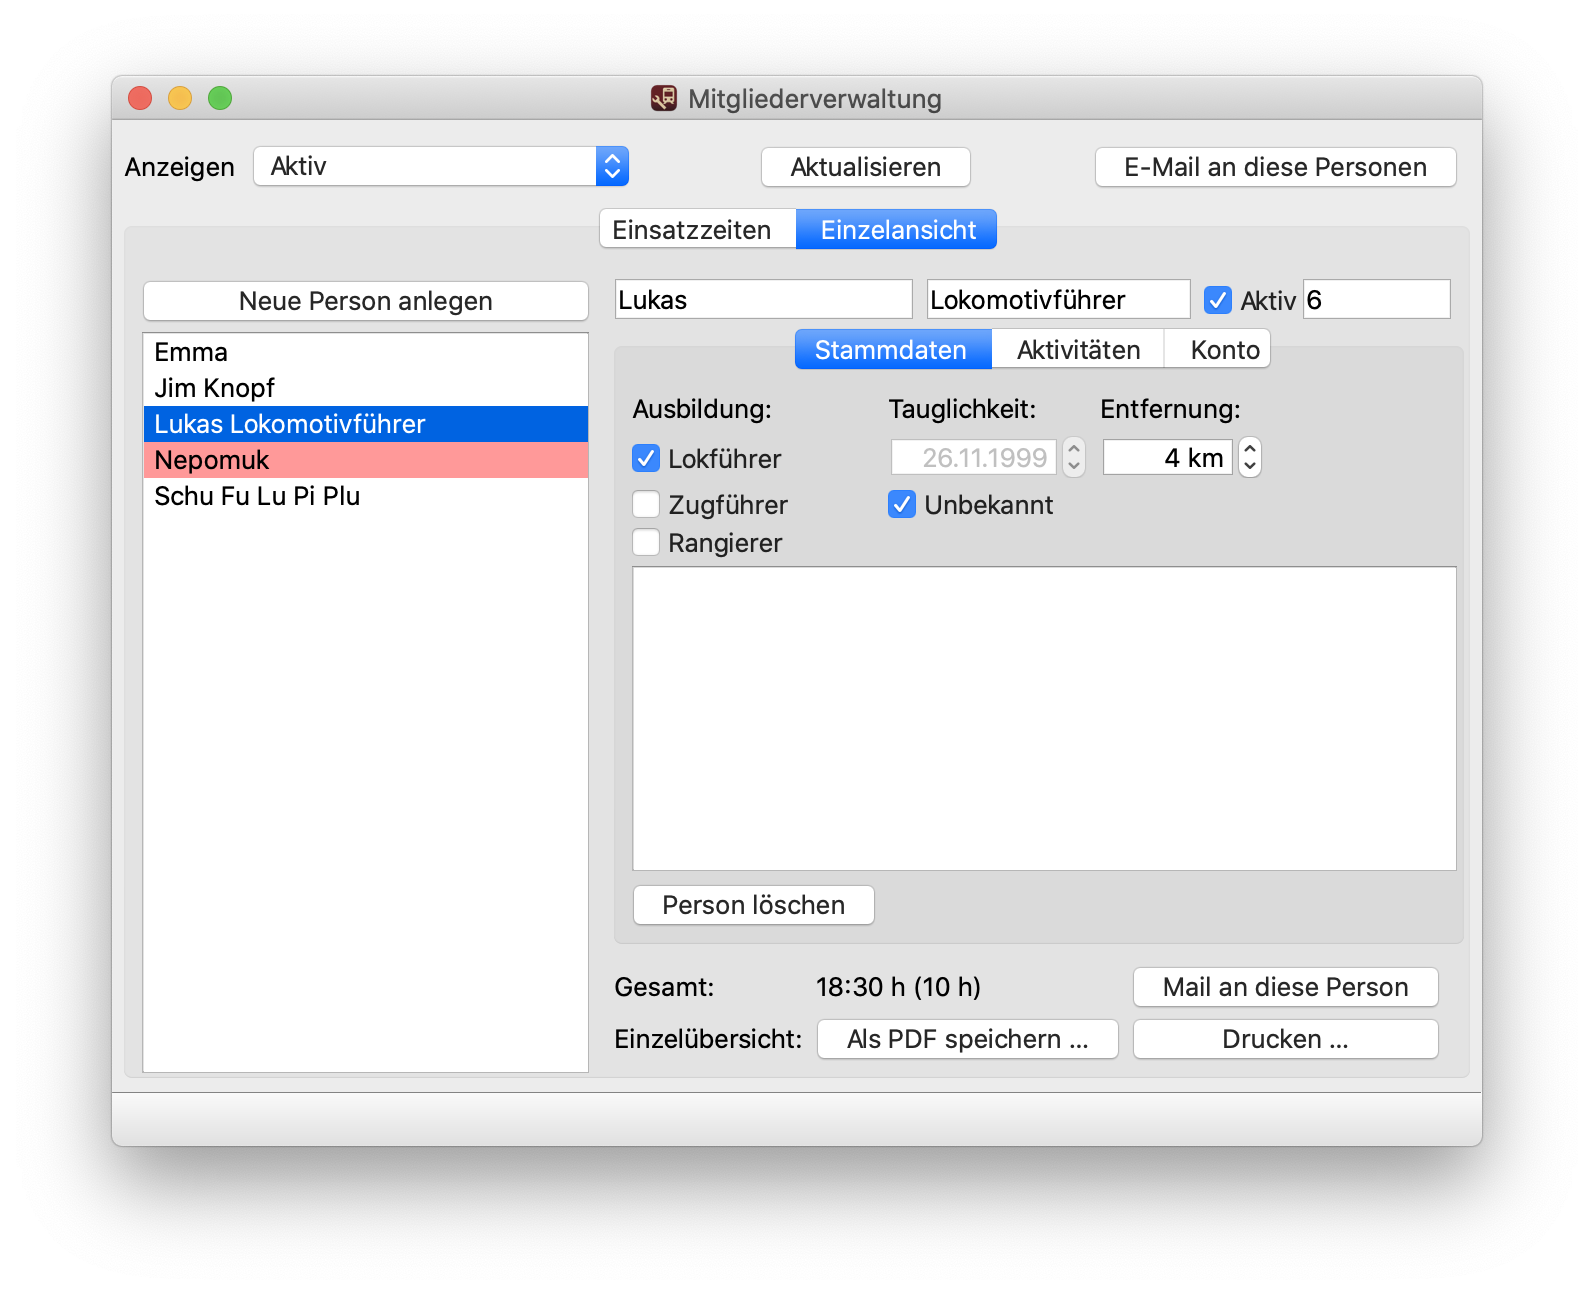
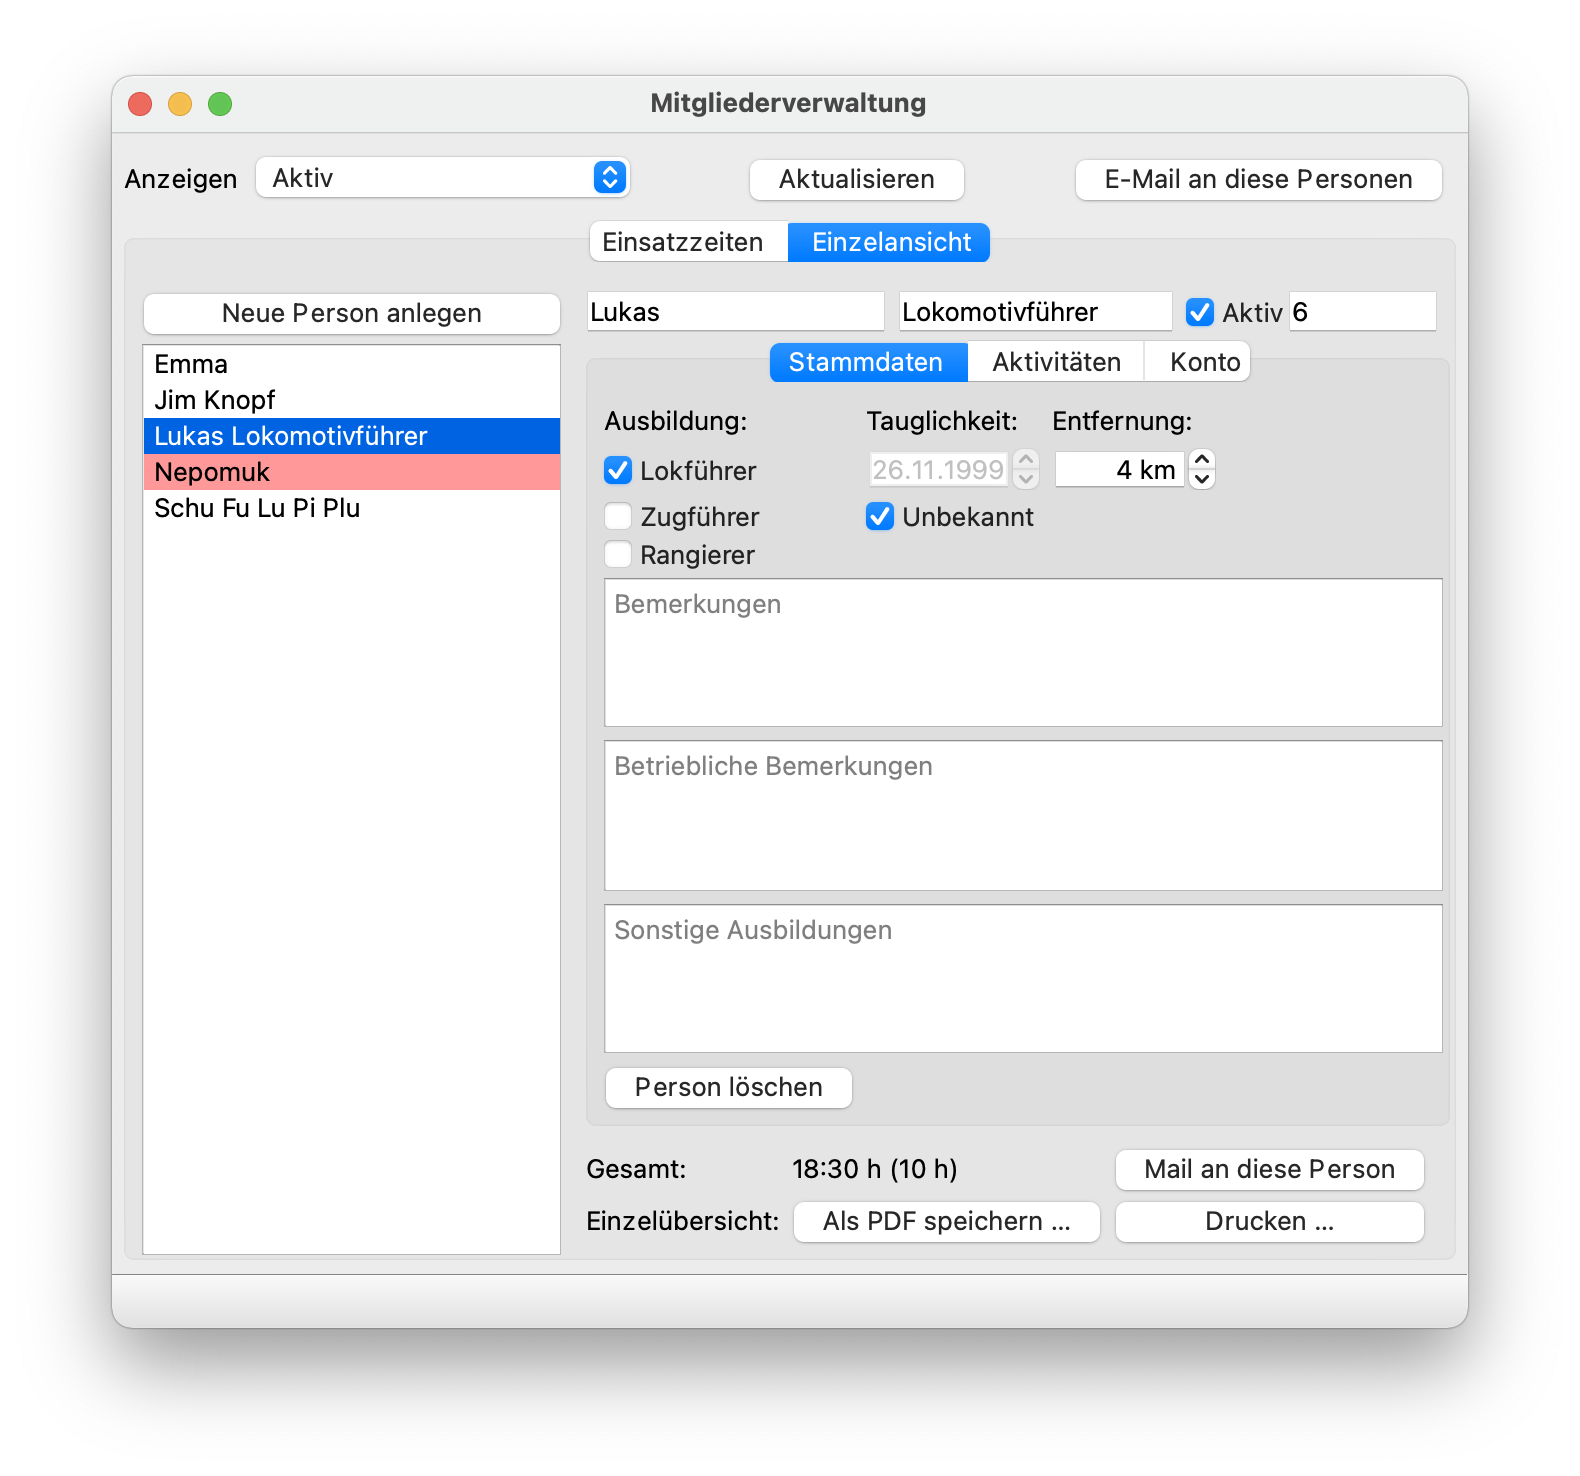
Anleitung aktualisiert
Anleitung auf Version 1.7.1 aktualisiert, dazu Veränderungen eingefügt und verschiedene Bilder aktualisiert.

Changed region(s): [[0.062, 0.0618, 0.9304, 0.9274]]

diff --git a/Dokumentation/src/version/v1-7.tex b/Dokumentation/src/version/v1-7.tex
@@ -1,4 +1,3 @@
-\begin{neu}
 \section{Version 1.7}\label{version:1:6}
 \subsection{Version 1.7.0}
 \label{version:1:7:0}
@@ -44,6 +43,49 @@ Veröffentlicht am 02.04.2021
   Die Datei mit den Stammdaten konnte nicht geöffnet werden
   \item
   Die hochgeladene Datei war unter Umständen leer bzw. fehlerhaft
+  \item
+  Diverse kleinere Fehlerbehebungen
+\end{itemize}
+
+
+\begin{neu}
+\subsection{Version 1.7.1}
+\label{version:1:7:1}
+Veröffentlicht am 13.06.2021
+\subsubsection{Verbessert}
+\begin{itemize}
+  \item
+  Die End-Zeit für Arbeitseinsätze wird dynamisch bestimmt (18Uhr im Sommer, 16 Uhr im Winter)
+  \item
+  Mehr Begriffe für die automatische Kategorieerkennung bei Arbeitseinsätzen
+  \item
+  Diverse interne Verbesserungen und Optimierungen
+  \item
+  Die Personaltabelle des Personalplaners wird nicht bei jeder Änderung aktualisiert
+  \item
+  Ausgabe bei Personallisten, wie viele Personen ausgegeben wurden
+  \item
+  Diverse kleinere Verbesserungen
+\end{itemize}
+
+\subsubsection{Fehlerbehebungen}
+\begin{itemize}
+  \item
+  Die Exportfunktion gab keine Aktivitäten aus, wenn "`Bis Ende des Jahres"' oder "`Ab Anfang des Jahres"' ausgewählt wurde
+  \item
+  Tb-Stunden wurden nicht ausgegeben
+  \item
+  Büro-Tätigkeiten erscheinen nicht in der Listenansicht
+  \item
+  Tabelle für das Personal hatte unter Umständen keine Überschrift
+  \item
+  Gefahrene Strecke wurde unter Umständen falsch berechnet
+  \item
+  Kontoinhaber falsch dargestellt, wenn nicht "`Familienbeitrag (Nutzer)"' ausgewählt war
+  \item
+  Einträge in der Personaltabelle eines Fahrtags konnte unter Umständen unberechtigt geändert werden
+  \item
+  Darstellung von Farben im Dunkelmodus wurden verbessert
   \item
   Diverse kleinere Fehlerbehebungen
 \end{itemize}

diff --git a/Dokumentation/src/vorne_u_hinten/begriffe.tex b/Dokumentation/src/vorne_u_hinten/begriffe.tex
@@ -36,6 +36,13 @@
     Eine Aktivität, bei der eine Arbeit im Mittelpunkt steht, bei der es vornehmlich nicht um den Zugbetrieb geht.
     Zum Beispiel vorbereiten des Museumszuges oder Vegetationsarbeiten. \\
   \hline
+  Einsatz &
+  \begin{neu}
+    Eine Tätigkeit einer Person bei einer bestimmten Aktivität (Arbeitseinsatz oder Fahrtag).
+    Hierzu gehört auch eine bestimmte Kategorie und bei Bedarf individuelle Anfangs- und Endzeiten.
+\end{neu}
+     \\
+  \hline
   ELF &
     Ein Kurs, bei dem ein bis zwei Personen einen Einblick in die Welt des Tf bekommt.
     Die Personen nehmen an einem theoretischen Unterricht teil und am zweiten Tag an der praktischen Ausbildung mit Museumszugbetrieb.\\

diff --git a/Dokumentation/src/epl/allgemein.tex b/Dokumentation/src/epl/allgemein.tex
@@ -93,7 +93,7 @@ Alternativ können Sie die beiden Programm im Ordner \datei{EPL} auch einzeln in
 
 \section{Über das Dokument}\label{epl:allg:sonstiges}
 Die Bilder in dieser Dokumentation stammen von Bildern der Entwicklerversionen des Programms für Version
-1.7.0
+1.7.1
 und aus früheren Versionen.
 Dadurch können Programmobjekte und Funktionen leicht von denen in der veröffentlichten Version abweichen.
 

diff --git a/Dokumentation/src/vorne_u_hinten/aenderungen.tex b/Dokumentation/src/vorne_u_hinten/aenderungen.tex
@@ -22,4 +22,10 @@
   02.04.2021 &
     Version 1.7.0 eingefügt.\newline
     Dokumentation überarbeitet, da das Programm in \Einsatz und \Personal aufgeteilt wurde.
+    \\
+  \hline
+  13.06.2021 &
+    Version 1.7.1 eingefügt.\newline
+    Kleinere Korrekturen.
 \end{tabularx}
+Änderungen seit Version 1.6.2 sind farblich hervorgehoben.

diff --git a/Dokumentation/src/anleitung.tex b/Dokumentation/src/anleitung.tex
@@ -43,7 +43,7 @@
 
 \subject{\centering\includegraphics[width=0.25\textwidth]{../../Icon/EPL.png}}
 \title{Anleitung EPL-Programmpaket}
-\subtitle{Version 1.7.0}
+\subtitle{Version 1.7.1}
 \author{Philipp Schepper}
 \date{Stand: \today}
 % \publishers{\Huge{\textsf{Arbeitsdatei}}}
